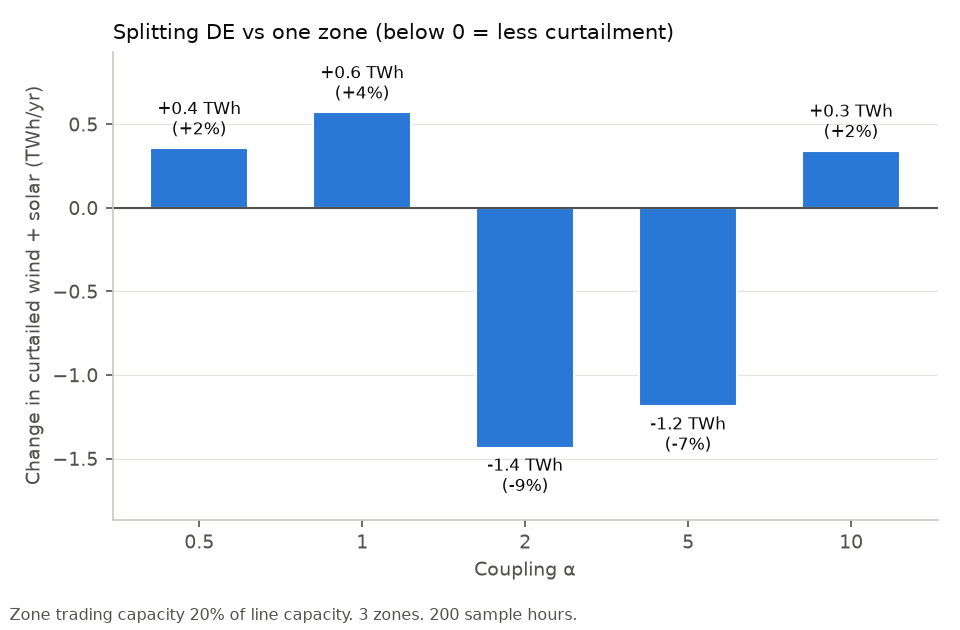
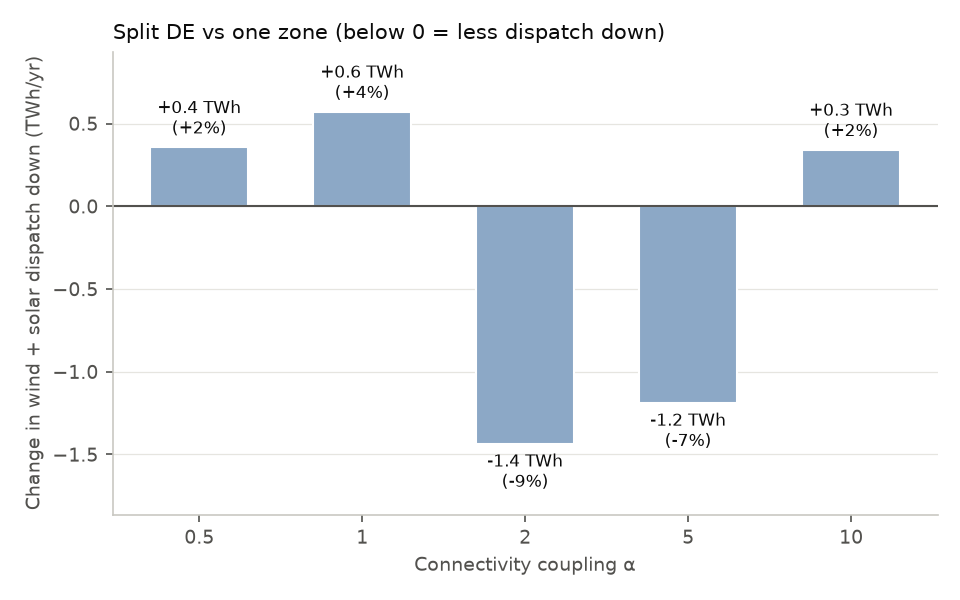
Validate scan: restyle derating-0.2 figures, add alpha = 2 DE zone map
EU zone-map palette (maps.PALETTE at map opacity), 'dispatch down'
terminology, 'connectivity coupling alpha' axis, no footnotes, signed
TWh/yr ticks. figures/validate/de_zones_a2.png: the alpha = 2 map.

Claude-Session: https://claude.ai/code/session_01Xq5TRT6MZ78NDn6YnSkUQb

Changed region(s): [[0.0, 0.03, 0.9688, 0.99]]

diff --git a/bidding_zones/bzgen/validate/scan.py b/bidding_zones/bzgen/validate/scan.py
@@ -20,6 +20,8 @@ import re
 import textwrap
 
 import matplotlib
+import matplotlib.patches
+import matplotlib.ticker
 matplotlib.use("Agg")
 import matplotlib.pyplot as plt
 import numpy as np
@@ -178,18 +180,29 @@ def _clean(ax):
     ax.tick_params(labelsize=9, colors="#52514e")
 
 
+def _tint(hex_color: str, a: float) -> str:
+    """Colour as drawn at opacity ``a`` on white (how the zone maps render bzgen.plot.maps.PALETTE)."""
+    rgb = np.array(matplotlib.colors.to_rgb(hex_color))
+    return matplotlib.colors.to_hex(a * rgb + (1 - a) * 1.0)
+
+
+# the EU-wide zone maps' palette (bzgen.plot.maps.PALETTE at map opacity): blue, sandy, green
+_A = 0.65
+BLUE, SAND, GREEN = (_tint(c, _A) for c in ("#4e79a7", "#f28e2b", "#59a14f"))
+XLABEL = "Connectivity coupling α"
+
+
 def readable_panels(df: pd.DataFrame, der: float, tag: str) -> list:
-    """The derating panel as two short, stand-alone figures."""
+    """The derating panel as two short, stand-alone figures (no footnotes)."""
     d = df[np.isclose(df.derating, der)].sort_values("alpha").copy()
     d["pct"] = 100 * d.dDD_RES_GWh / d.DD_k1_GWh
     x = np.arange(len(d))
     lab = [f"{a:g}" for a in d.alpha]
-    note = f"Zone trading capacity {der:.0%} of line capacity. 3 zones. 200 sample hours."
     out = []
 
-    fig, ax = plt.subplots(figsize=(6.4, 4.2))
+    fig, ax = plt.subplots(figsize=(6.4, 4.0))
     v = d.dDD_RES_GWh.to_numpy() / 1e3
-    ax.bar(x, v, 0.6, color="#2a78d6", edgecolor="white")
+    ax.bar(x, v, 0.6, color=BLUE, edgecolor="white")
     for xi, vi, pc in zip(x, v, d.pct):
         ax.text(xi, vi + (0.05 if vi >= 0 else -0.05), f"{vi:+.1f} TWh\n({pc:+.0f}%)", ha="center",
                 va="bottom" if vi >= 0 else "top", fontsize=8, color="#0b0b0b")
@@ -197,34 +210,68 @@ def readable_panels(df: pd.DataFrame, der: float, tag: str) -> list:
     lo, hi = ax.get_ylim()
     ax.set_ylim(lo - 0.15 * (hi - lo), hi + 0.12 * (hi - lo))
     ax.set_xticks(x, lab)
-    ax.set_xlabel("Coupling α", fontsize=9, color="#52514e")
-    ax.set_ylabel("Change in curtailed wind + solar (TWh/yr)", fontsize=9, color="#52514e")
-    ax.set_title("Splitting DE vs one zone (below 0 = less curtailment)", fontsize=10,
+    ax.set_xlabel(XLABEL, fontsize=9, color="#52514e")
+    ax.set_ylabel("Change in wind + solar dispatch down (TWh/yr)", fontsize=9, color="#52514e")
+    ax.set_title("Split DE vs one zone (below 0 = less dispatch down)", fontsize=10,
                  color="#0b0b0b", loc="left")
     _clean(ax)
-    fig.text(0.01, 0.01, note, fontsize=7.5, color="#52514e", va="bottom")
-    fig.tight_layout(rect=(0, 0.04, 1, 1))
+    fig.tight_layout()
     f1 = ROOT / "figures" / "validate" / f"readable_dd_change_d{der:g}.png"
     fig.savefig(f1, dpi=150)
     plt.close(fig)
     out.append(f1)
 
-    fig, ax = plt.subplots(figsize=(6.4, 4.2))
+    fig, ax = plt.subplots(figsize=(6.4, 4.0))
     sp, rd = d.dSpill_market_GWh.to_numpy() / 1e3, d.dRedispatch_down_res_GWh.to_numpy() / 1e3
-    ax.bar(x, sp, 0.6, color="#eb6834", edgecolor="white", label="Market curtailment")
-    ax.bar(x, rd, 0.6, color="#1baf7a", edgecolor="white", label="Redispatch down")
-    ax.plot(x, sp + rd, "o", color="#0b0b0b", ms=6, label="Net change")
+    ax.bar(x, sp, 0.6, color=SAND, edgecolor="white", label="Market dispatch down")
+    ax.bar(x, rd, 0.6, color=GREEN, edgecolor="white", label="Redispatch dispatch down")
+    ax.plot(x, sp + rd, "o", color="#2e4a6b", ms=6, label="Net change")
     ax.axhline(0, color="#52514e", lw=1)
+    ax.yaxis.set_major_formatter(matplotlib.ticker.FormatStrFormatter("%+.1f"))
     ax.set_xticks(x, lab)
-    ax.set_xlabel("Coupling α", fontsize=9, color="#52514e")
-    ax.set_ylabel("Change vs one zone (TWh/yr)", fontsize=9, color="#52514e")
+    ax.set_xlabel(XLABEL, fontsize=9, color="#52514e")
+    ax.set_ylabel("Change in wind + solar dispatch down (TWh/yr)", fontsize=9, color="#52514e")
     ax.set_title("Where the change comes from", fontsize=10, color="#0b0b0b", loc="left")
     _clean(ax)
     ax.legend(fontsize=8, frameon=False, loc="lower left")
-    fig.text(0.01, 0.01, note, fontsize=7.5, color="#52514e", va="bottom")
-    fig.tight_layout(rect=(0, 0.04, 1, 1))
+    fig.tight_layout()
     f2 = ROOT / "figures" / "validate" / f"readable_dd_sources_d{der:g}.png"
     fig.savefig(f2, dpi=150)
     plt.close(fig)
     out.append(f2)
     return out
+
+
+def de_zone_map(cid: str, focus: str = "DE"):
+    """Map of the focus country's zones for one sweep configuration (EU-map colours)."""
+    from bzgen.plot import maps as pm
+    buses = pd.read_csv(ROOT / "data" / "interim" / "buses.csv", index_col=0)
+    lines = pd.read_csv(ROOT / "data" / "interim" / "lines.csv", index_col=0)
+    links = pd.read_csv(ROOT / "data" / "interim" / "links.csv", index_col=0)
+    lab = pd.read_csv(ROOT / "results" / "configs" / cid / "labels.csv")
+    lab = lab[lab.country == focus].set_index("bus").zone.astype(int)
+    row = pd.read_csv(ROOT / "results" / "configs" / cid / "rows.csv").set_index("country").loc[focus]
+    shares = [float(x) for x in str(row.zone_load_share).split("/")]
+    alpha = float(re.match(r"a([\d.]+)_", cid).group(1))
+    mem = sorted(buses[buses.cluster_country == focus].country.unique())
+    fig, ax = plt.subplots(figsize=(5.4, 6.4))
+    pm.draw_country(ax, buses, lines, links, lab, mem)
+    order = lab.value_counts().sort_index().index
+    handles = [matplotlib.patches.Patch(color=_tint(pm.PALETTE[int(z) % len(pm.PALETTE)], 0.55),
+                                        label=f"Zone {i + 1}: {s:.0%} of load")
+               for i, (z, s) in enumerate(zip(order, _shares_by_label(lab, cid, focus, shares)))]
+    ax.legend(handles=handles, fontsize=8, frameon=False, loc="lower left")
+    ax.set_title(f"Germany: 3 bidding zones, {XLABEL.lower()} = {alpha:g}", fontsize=10, loc="left")
+    fig.tight_layout()
+    f = ROOT / "figures" / "validate" / f"de_zones_a{alpha:g}.png"
+    fig.savefig(f, dpi=160)
+    plt.close(fig)
+    return f
+
+
+def _shares_by_label(lab, cid, focus, shares_sorted):
+    """rows.csv lists load shares sorted by zone size; recompute per label from the load key."""
+    from bzgen.cluster.sweep import node_attributes
+    L, _ = node_attributes(config.load())
+    lz = L.reindex(lab.index).fillna(0.0).groupby(lab).sum()
+    return list((lz / lz.sum()).sort_index())
